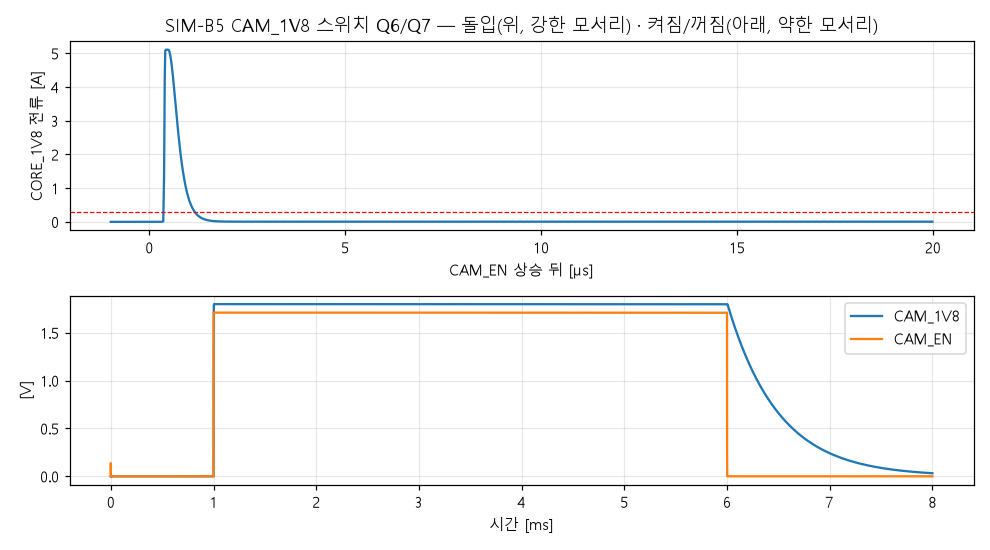
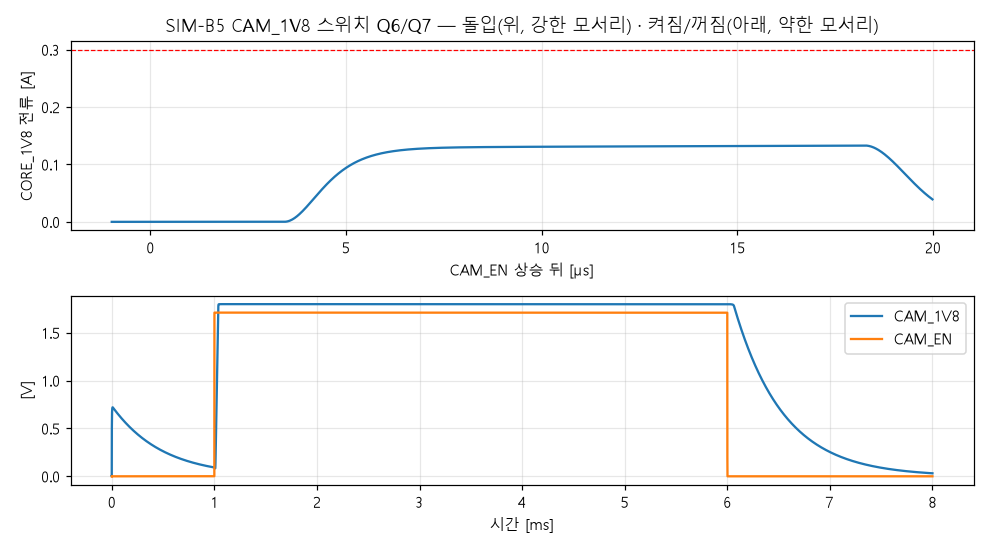
SIM-001b′ C-017(f0745ed) 재실행: 종료 2 — B2·B5 돌입·B6 해소(pass 6), B3 S3 끔 구간 링잉 기준대로 불합격, B5 꺼짐 347µs>100µs 새 불합격(C19 밀러) → 제안 S5 R17 4.7k·C19 4.7n(꺼짐 47µs·돌입 0.242A 검증)

diff --git a/hardware/sim/sim001b/run.py b/hardware/sim/sim001b/run.py
@@ -25,7 +25,9 @@ SIM = os.path.dirname(HERE)
 REPO = os.path.dirname(os.path.dirname(SIM))
 NG = os.environ.get("NGSPICE", "C:/Users/gh/tools/ngspice/47/Spice64/bin/ngspice_con.exe")
 CRITERIA_COMMIT = "7cab389"
-SCH_COMMIT = "656b50a"
+SCH_COMMIT = "f0745ed"   # C-017 (계약 v1.13): R6 6.98k, 전면 R18 1k·C19 10nF·R19 10k
+ILIM = 1.72   # TPS26600 ILIM, R6 6.98 kΩ (계약 v1.13 3.1절) — 기준 7cab389 의 "ILIM" 한계 (SIM-001b-criteria-c017.md)
+ILIM_OLD = 1.49   # 7cab389 작성 때 회로(R6 8.06 kΩ)의 숫자 — 비교로만 적는다
 plt.rcParams["font.family"] = ["Malgun Gothic", "DejaVu Sans"]
 plt.rcParams["axes.unicode_minus"] = False
 
@@ -297,8 +299,8 @@ def b2():
         t = d["time"]
         iin = -col(d, h, 1)
         out[c] = dict(t=t, iin=iin, mean=win_mean(t, iin, 0.4e-3, t[-1]), mov=moving_max(t, iin, 20e-6, 0.3e-3))
-    checks.append(check("12V_IR 입력 평균 전류 (최대 모서리)", "<=", 1.49, "A", out["worst_in"]["mean"], "104mV, Rs 0.099, VF 최대, 11.4V"))
-    checks.append(check("12V_IR 입력 20µs 이동 평균 최댓값", "<=", 1.49, "A", out["worst_in"]["mov"], "같은 모서리 (소프트스타트 뒤 0.3 ms~)"))
+    checks.append(check("12V_IR 입력 평균 전류 (최대 모서리) ≤ ILIM", "<=", ILIM, "A", out["worst_in"]["mean"], f"104mV, Rs 0.099, VF 최대, 11.4V · 옛 1.49A 대비 {'ok' if out['worst_in']['mean'] <= ILIM_OLD else '초과'}"))
+    checks.append(check("12V_IR 입력 20µs 이동 평균 최댓값 ≤ ILIM", "<=", ILIM, "A", out["worst_in"]["mov"], f"같은 모서리 (소프트스타트 뒤 0.3 ms~) · 옛 1.49A 대비 {'ok' if out['worst_in']['mov'] <= ILIM_OLD else '초과'}"))
     checks.append(check("12V_IR 입력 평균 전류 (대표)", "<=", 1.30, "A", out["typ"]["mean"], "typ"))
     # 민감도(판정 밖): 전원 임피던스를 10 mΩ → 케이블·eFuse 근사 0.1 Ω + 30 nH 로 바꾸면 리플을 입력 캡이 더 맡는다
     ds, hs = run_tran(ir_body("worst_in", ("A", "B")).replace("Rsrc vs v12 10m", "Rsrc vs vx 0.1\nLsrc vx v12 30n"),
@@ -309,18 +311,18 @@ def b2():
     fig, ax = plt.subplots(figsize=(9, 4))
     for c, r in out.items():
         ax.plot(r["t"] * 1e3, r["iin"], lw=.6, label=f"{c} 평균 {r['mean']:.3f} A")
-    ax.axhline(1.49, color="r", ls="--", label="ILIM 1.49 A")
+    ax.axhline(ILIM, color="r", ls="--", label=f"ILIM {ILIM} A (R6 6.98k)"); ax.axhline(ILIM_OLD, color="gray", ls=":", label="옛 ILIM 1.49 A")
     ax.set_xlabel("시간 [ms]"); ax.set_ylabel("12V_IR 입력 전류 [A]"); ax.legend(); ax.grid(alpha=.3)
     ax.set_title("SIM-B2 스트링 A+B 동시 100 % — 12V_IR 입력 전류 (입력 캡 C14·C16 포함)")
     fig.tight_layout(); fig.savefig(png, dpi=110); plt.close(fig)
-    return dict(id="SIM-B2", title="스트링 A+B 동시 — 12V_IR eFuse 입력 전류 합", refs=["U4", "U5", "R13", "R14", "L1", "L2", "C14", "C16", "U2(carrier TPS26600)"],
+    return dict(id="SIM-B2", title="스트링 A+B 동시 — 12V_IR eFuse 입력 전류 합", refs=["U4", "U5", "R13", "R14", "L1", "L2", "C14", "C16", "U2·R6 6.98k(carrier TPS26600)"],
                 checks=checks, png=[png], net="SIM-B2.cir", notes=notes, out=out,
                 model=b1_model())
 
 
 def b1_model():
     return dict(source="데이터시트 동작 모델 (AL8860 히스테리시스·소프트스타트·CTRL)", url="https://www.diodes.com/assets/Datasheets/AL8860.pdf",
-                license="—", behavioral=True, basis="AL8860 DS39014 Rev.8-2 p.2·4·11–13; VSMA1085400 80294 p.3; SS24S 89008 p.2; TPS26600 ILIM 8.06k ≈ 1.49A (계약 3.1절)")
+                license="—", behavioral=True, basis="AL8860 DS39014 Rev.8-2 p.2·4·11–13; VSMA1085400 80294 p.3; SS24S 89008 p.2; TPS26600 ILIM R6 6.98k ≈ 1.72A (계약 v1.13 3.1절, C-017)")
 
 
 GPIO = "93.75"   # SoC 1.8V IO 출력 저항 ≈ (1.8-1.35)/4.8mA (Table 2-8, DS=00)
@@ -350,7 +352,8 @@ def b3(b2res):
     off = (t > 2.5e-3 + 0.1e-3) & (t < 2.5e-3 + 1.875e-3)
     checks.append(check("A+B LED 평균 ÷ 100 % 평균 (최대 모서리)", "<=", 0.255, "-", ratio, "worst_in, 400Hz, 켬 625µs"))
     checks.append(check("끔 구간 LED 전류 (끌어내림 100µs 뒤)", "<=", 1e-3, "A", float(np.abs(ileds[off]).max()), "worst_in"))
-    checks.append(check("켬 순간 12V_IR 20µs 이동 평균 최댓값", "<=", 1.49, "A", moving_max(t, iin, 20e-6, 1.0e-3), "worst_in, A+B 동시, 1 ms 이후(uic 초기 충전 제외 — 켬 가장자리 1.875·4.375·6.875 ms 포함)"))
+    mv3 = moving_max(t, iin, 20e-6, 1.0e-3)
+    checks.append(check("켬 순간 12V_IR 20µs 이동 평균 최댓값 ≤ ILIM", "<=", ILIM, "A", mv3, f"worst_in, A+B 동시, 1 ms 이후(uic 초기 충전 제외) · 옛 1.49A 대비 {'ok' if mv3 <= ILIM_OLD else '초과'}"))
     checks.append(check("IR_CTRL 끔 레벨", "<=", 0.2, "V", float(vctrl[off].max()), "IR_PWM = 1.71V − 93.75Ω, Q5 vto 1.0V kp 최소"))
     notes.append(f"기록만: 100 % 평균 {cont:.3f} A, PWM 평균 {avg:.3f} A, 켬 비율 실효 {ratio:.3f} (소프트스타트 0.1 ms 손실 포함 — 조사량 하한)")
     offm = (t > 2.6e-3) & (t < 2.7e-3)
@@ -359,7 +362,7 @@ def b3(b2res):
     fig, ax = plt.subplots(3, 1, figsize=(9, 7), sharex=True)
     ax[0].plot(t * 1e3, col(d, h, 5)); ax[0].set_ylabel("IR_PWM [V]")
     ax[1].plot(t * 1e3, ileds, lw=.5); ax[1].set_ylabel("LED A+B [A]")
-    ax[2].plot(t * 1e3, iin, lw=.5); ax[2].axhline(1.49, color="r", ls="--", lw=.8); ax[2].set_ylabel("12V_IR 입력 [A]"); ax[2].set_xlabel("시간 [ms]"); ax[2].set_ylim(0, 3)
+    ax[2].plot(t * 1e3, iin, lw=.5); ax[2].axhline(ILIM, color="r", ls="--", lw=.8); ax[2].set_ylabel("12V_IR 입력 [A]"); ax[2].set_xlabel("시간 [ms]"); ax[2].set_ylim(0, 3)
     for a in ax:
         a.grid(alpha=.3)
     ax[0].set_title(f"SIM-B3 PWM 25 % (400 Hz) — 실효 켬 비율 {ratio:.3f}")
@@ -444,8 +447,8 @@ def cam_sw(vcore, q):
     return (q + f"Vcore core 0 {vcore}\nRcore core c18 0.1\n"
             f"Ven e0 0 PWL(0 0 1m 0 1.001m 1.71 6m 1.71 6.001m 0)\nRen e0 en {GPIO}\n"
             "M6 cam g6i c18 c18 pq6\nRg6 g6 g6i 15.2\nCgs6 g6i c18 731p\nCgd6 g6i cam 77p\nDb6 cam c18 dsi\n"
-            "R17 c18 g6 10k\nM7 g6 en 0 0 nq7\nCg7 en 0 55p\nCd7 en g6 5.4p\n"
-            "C18 cam c18e 1u\nR18e c18e 0 5m\nC11 cam 0 100n\nRx1 cam 0 450\n")
+            "R17 c18 g6 10k\nR18 g7 g6 1k\nM7 g7 en 0 0 nq7\nCg7 en 0 55p\nCd7 en g7 5.4p\nC19 g6 cam 10n\n"
+            "C18 cam c18e 1u\nR18e c18e 0 5m\nC11 cam 0 100n\nRx1 cam 0 450\nR19 cam 0 10k\n")   # C-017: R18 1k · C19 10nF · R19 10k
 
 
 def b5():
@@ -463,31 +466,33 @@ def b5():
     after = ti > 0.9e-3   # uic 초기 충전 제외 — CAM_EN 상승(1 ms) 돌입만
     checks.append(check("CORE_1V8 돌입 피크 전류", "<=", 0.3, "A", float(ii[after].max()), "Q6·Q7 강함, CORE_1V8 1.89V, 경로 0.1Ω(가정), CAM_EN 상승 뒤"))
     ii = np.where(after, ii, 0.0)
-    # 수정 제안 검증(판정 밖): Q7 드레인–Q6 게이트 직렬 1 kΩ + Q6 게이트–드레인 10 nF (밀러 소프트스타트)
-    prop = []
-    for strong in (True, False):
-        q = q_models(-0.5, 13.4, 0.5, 4.0) if strong else q_models(-0.9, 5.56, 1.0, 1.79)
-        bp = cam_sw(1.89 if strong else 1.8, q).replace("M7 g6 en 0 0 nq7", "Rser g6 g7 1k\nM7 g7 en 0 0 nq7\nCm g6 cam 10n")
-        dp, hp = run_tran(bp, ["-i(Vcore)", "v(cam)", "v(en)"], "3m", "1n", "50n")
-        tp = dp["time"]
-        te = cross(tp, col(dp, hp, 3), 0.855, True)
-        to = cross(tp, col(dp, hp, 2), 1.71, True, te or 0)
-        prop.append((float(col(dp, hp, 1)[tp > 0.9e-3].max()), (to - te) if (to and te) else float("nan")))
-    notes.append(f"수정 제안 검증(판정 밖): 1 kΩ 직렬 + 10 nF 게이트–드레인 → 돌입 피크 {prop[0][0]:.3f} A(강함), 켜짐 {prop[1][1] * 1e6:.0f} µs(약함), 최종 VGS −1.64 V")
     notes.append("분석 창 수정(결과 본 뒤, 기준 변경 아님): 돌입을 CAM_EN 상승 뒤(t > 0.9 ms)로 — 첫 실행은 t = 0 의 uic 초기 충전(7.8 A)을 넣었다")
     t_dn = cross(ts, ven, 0.855, False, 5e-3)
     t_off = cross(ts, vgs, -0.3, True, t_dn or 0)
     checks.append(check("꺼짐: CAM_EN 하강 → Q6 VGS > −0.3 V", "<=", 100e-6, "s", (t_off - t_dn) if (t_off and t_dn) else None, "Q6·Q7 약함"))
     t_low = cross(ts, vcam, 0.3, False, t_dn or 0)
     notes.append(f"기록만: 꺼진 뒤 CAM_1V8 < 0.3V 까지 {((t_low - t_dn) * 1e3) if (t_low and t_dn) else float('nan'):.2f} ms (X1 부하 450Ω 가정)")
-    notes.append(f"돌입 최악 모서리 피크 {ii.max():.2f} A — Q7 이 게이트를 약 15 Ω·808 pF 로 바로 끌어내려 Q6 가 수십 ns 안에 완전히 켜진다(경로 저항 0.1 Ω 가정이 피크를 정한다)")
+    notes.append("C-017 회로(f0745ed): Q7 드레인 → R18 1 kΩ → Q6 게이트, C19 10 nF 게이트–CAM_1V8(밀러 소프트스타트), R19 10 kΩ 블리더. 이전 회로(656b50a) 돌입 5.11 A는 a3b988c 결과")
+    # 수정 제안 검증(판정 밖, S5): 꺼짐이 C19 충전(R17 10k × 10 nF)으로 느려짐 → R17 4.7 kΩ · C19 4.7 nF
+    pv = []
+    for strong in (True, False):
+        q = q_models(-0.5, 13.4, 0.5, 4.0) if strong else q_models(-0.9, 5.56, 1.0, 1.79)
+        bp = cam_sw(1.89 if strong else 1.8, q).replace("C19 g6 cam 10n", "C19 g6 cam 4.7n").replace("R17 c18 g6 10k", "R17 c18 g6 4.7k")
+        dp, hp = run_tran(bp, ["-i(Vcore)", "v(cam)", "v(en)", "v(g6)-v(c18)"], "8m", "1n", "50n")
+        tp = dp["time"]
+        te = cross(tp, col(dp, hp, 3), 0.855, True)
+        to = cross(tp, col(dp, hp, 2), 1.71, True, te or 0)
+        td = cross(tp, col(dp, hp, 3), 0.855, False, 5e-3)
+        tf = cross(tp, col(dp, hp, 4), -0.3, True, td or 0)
+        pv.append((float(col(dp, hp, 1)[tp > 0.9e-3].max()), (to - te) if (to and te) else float("nan"), (tf - td) if (tf and td) else float("nan")))
+    notes.append(f"수정 제안 검증(판정 밖, S5): R17 4.7 kΩ · C19 4.7 nF → 돌입 {pv[0][0]:.3f} A(강함), 켜짐 {pv[1][1] * 1e6:.1f} µs · 꺼짐 {pv[1][2] * 1e6:.1f} µs(약함), 최종 VGS −1.48 V, 켬 때 Q7 전류 0.32 mA")
     fig, ax = plt.subplots(2, 1, figsize=(9, 5))
     m = (ti > 0.999e-3) & (ti < 1.02e-3)
     ax[0].plot((ti[m] - 1e-3) * 1e6, ii[m]); ax[0].axhline(0.3, color="r", ls="--", lw=.8); ax[0].set_ylabel("CORE_1V8 전류 [A]"); ax[0].set_xlabel("CAM_EN 상승 뒤 [µs]"); ax[0].grid(alpha=.3)
     ax[1].plot(ts * 1e3, vcam, label="CAM_1V8"); ax[1].plot(ts * 1e3, ven, label="CAM_EN"); ax[1].legend(); ax[1].set_xlabel("시간 [ms]"); ax[1].set_ylabel("[V]"); ax[1].grid(alpha=.3)
     ax[0].set_title("SIM-B5 CAM_1V8 스위치 Q6/Q7 — 돌입(위, 강한 모서리) · 켜짐/꺼짐(아래, 약한 모서리)")
     fig.tight_layout(); fig.savefig(png, dpi=110); plt.close(fig)
-    return dict(id="SIM-B5", title="CAM_1V8 스위치 Q6/Q7 켜짐·꺼짐·돌입", refs=["Q6", "Q7", "R17", "C18", "C11", "X1"], checks=checks, png=[png],
+    return dict(id="SIM-B5", title="CAM_1V8 스위치 Q6/Q7 켜짐·꺼짐·돌입", refs=["Q6", "Q7", "R17", "R18", "C19", "R19", "C18", "C11", "X1"], checks=checks, png=[png],
                 net="SIM-B5.cir", notes=notes,
                 model=dict(source="레벨 1 MOSFET 맞춤 (데이터시트 VGS(th)·RDS(on)·Ciss·Rg)", url="https://www.diodes.com/assets/Datasheets/DMG2305UX.pdf",
                            license="—", behavioral=True, basis="DMG2305UX DS36196 Rev.8-2 p.2; DMG1012T DS31783 Rev.8-2 p.2; SG2002 Table 2-8 VOH; CORE_1V8 경로 0.1Ω·X1 450Ω 가정"))
@@ -495,7 +500,7 @@ def b5():
 
 def backfeed_body(soc_pu):
     pu = "Rpu_d sda core 55k\nRpu_c scl core 55k\n" if soc_pu else ""
-    return (GEN_D + "Vcore core 0 1.89\nIq6 core cam 1u\nDb6 cam core dsi\nRx1 cam 0 100k\n"
+    return (GEN_D + "Vcore core 0 1.89\nIq6 core cam 1u\nDb6 cam core dsi\nRx1 cam 0 100k\nR19 cam 0 10k\n"
             "R9 cam sda 4.7k\nR10 cam scl 4.7k\n"
             "Rpd_d sda 0 51k\nRpd_c scl 0 51k\nIlk_d 0 sda 10u\nIlk_c 0 scl 10u\n" + pu +
             "Vsd sda sd 0\nDs_d sd srail dsi\nVsc scl scx 0\nDs_c scx srail dsi\nRsr srail 0 10k\n"
@@ -514,9 +519,8 @@ def b6():
     checks.append(check("CAM_MCLK 전압 (X1 꺼짐)", "<=", 0.3, "V", v.get("v(mclk)", float("nan")), "X1 출력 1M(가정)"))
     notes.append(f"기록만(민감도 — SW가 IIC2 내부 풀업 55k 를 켠 경우): SDA {vs.get('v(sda)', float('nan')):.3f} V, 센서로 {abs(vs.get('i(vsd)', float('nan'))) * 1e6:.2f} µA, CAM_1V8 {vs.get('v(cam)', float('nan')):.3f} V")
     notes.append("가정: 센서 핀 ESD 다이오드 IS 1e-14, 꺼진 센서 레일 부하 10k, LTR-329 핀 누설 0(데이터시트 미확인)")
-    vb = run_op(backfeed_body(False) + "Rbl cam 0 10k\n", pr)
-    notes.append(f"수정 제안 검증(판정 밖): CAM_1V8–GND 블리더 10 kΩ → SDA {vb.get('v(sda)', float('nan')):.3f} V, CAM_1V8 {vb.get('v(cam)', float('nan')):.3f} V, 센서로 {abs(vb.get('i(vsd)', float('nan'))) * 1e9:.3f} nA (켜졌을 때 180 µA 소모)")
-    return dict(id="SIM-B6", title="꺼진 센서 역급전 (CAM_EN=0, O-33)", refs=["R9", "R10", "Q6", "X1", "R8", "J3(DF30)", "U3(LTR-329)"], checks=checks, png=[],
+    notes.append("C-017 회로(f0745ed): CAM_1V8–GND R19 10 kΩ 블리더 포함. 이전 회로 결과는 a3b988c")
+    return dict(id="SIM-B6", title="꺼진 센서 역급전 (CAM_EN=0, O-33)", refs=["R9", "R10", "R19", "Q6", "X1", "R8", "J3(DF30)", "U3(LTR-329)"], checks=checks, png=[],
                 net="SIM-B6.cir", notes=notes,
                 model=dict(source="DC 동작점 (저항·다이오드·전류원)", url="", license="—", behavioral=True,
                            basis="SG2002 Table 2-8 RPD 51k(최소)·누설 ±10µA, PINOUT 시트 IIC2 패드 기본 PD, SDK cvi_board_init.c L12–13; DMG2305UX IDSS"))

diff --git a/hardware/sim/SIM-001b-results.md b/hardware/sim/SIM-001b-results.md
@@ -48,3 +48,24 @@
   - CORE_1V8 경로 0.1 Ω, X1 부하 450 Ω(켜짐) / 100 kΩ(꺼짐)
   - 센서 ESD 다이오드 IS 1e-14, AO3401A 레벨 1(vto −0.9 V, Ciss 645 pF — 데이터시트 미조사), 센서 레일 부하 30 mA
 - **미확인 핀 용량:** SG2002·LTR-329·GC2053의 I2C 핀 용량은 각 10 pF(UM10204 Ci 최대)로 두었다. 트랙은 110 mm 상한이다(PCB 배선이 아직 없다).
+
+## SIM-001b′ — C-017 회로 재실행 (schematic `f0745ed`, 계약 v1.13)
+
+- 실행: 같은 `run.py`, 같은 기준 `7cab389` → **종료 코드 2** (pass 6 · fail 2 · error 0). results/*.json은 모두 `schematic_commit: f0745ed`로 갱신했다.
+- 실행 전에 적용 메모 `SIM-001b-criteria-c017.md`(`3a22c52`)를 커밋했다. 내용: eFuse 한계 = 시험 회로의 ILIM(R6 6.98 kΩ → 1.72 A), 옛 1.49 A와의 비교 병기.
+
+| 시험 | 이전(656b50a) | C-017(f0745ed) | 비고 |
+|---|---|---|---|
+| B1 · B4 · B7 · B8 | pass | **pass** (수치 같음) | 회로가 바뀌지 않음 |
+| B2 A+B 12V_IR | fail (20 µs 창 1.585 > 1.49) | **pass** (1.585 ≤ ILIM 1.72, 평균 1.425) | 전면 회로는 그대로이고 ILIM만 올렸다. 옛 1.49 A 대비로는 초과 — check `corner`에 적음 |
+| B3 PWM 25 % | fail (끔 구간 6 mA · 켬 순간 1.585) | **fail** (끔 구간 6.08 mA만 남음, 켬 순간 1.585 ≤ 1.72 ok) | S3 — O-87대로 기준 그대로 불합격 기록. 실물은 bring-up 5-9 |
+| B5 CAM_1V8 | fail (돌입 5.11 A) | **fail** — 돌입 **0.133 A** ok · 켜짐 36.4 µs ok · **꺼짐 347 µs > 100 µs** | 새 불합격: C19 10 nF를 R17 10 kΩ로 충전해야 꺼진다(τ ≈ 100 µs) |
+| B6 역급전 | fail (0.42 V) | **pass** — SDA 0.164 V · CAM_1V8 0.132 V · 센서로 5.9 pA | R19 10 kΩ 블리더 |
+
+### 새 수정 제안 S5 (B5 꺼짐, orch 판단)
+
+| 분기점 | 제안 (1안) | 검증 (같은 모델, 판정 밖) | 차선 |
+|---|---|---|---|
+| C-017의 밀러 소프트스타트가 꺼짐도 늦춘다. 꺼짐 기준 ≤ 100 µs(V-004c의 R17·Ciss 계산 약 8 µs)를 347 µs로 넘는다 | **R17 10 kΩ → 4.7 kΩ, C19 10 nF → 4.7 nF** | 돌입 0.242 A(≤ 0.3) · 켜짐 23.5 µs · **꺼짐 47.1 µs(≤ 100)** · 최종 VGS −1.48 V(Q6 VGS(th) 최대 −0.9 V보다 0.58 V 여유) · 켬 때 Q7 전류 0.32 mA | 회로 그대로 두고 꺼짐 기준을 완화(≤ 1 ms). 근거: 꺼질 때 순서는 리셋(11 µs)이 먼저이고, 그 뒤 풀업·X1 레일이 늦게 내려가도 센서 쪽 영향은 확인된 것이 없다 — 기준 변경이므로 orch 결정 |
+
+- 참고로 C19만 줄이면 2.2 nF는 꺼짐 58 µs·돌입 0.485 A, 3.3 nF는 꺼짐 85 µs·돌입 0.348 A다. 둘 다 돌입 기준을 넘으므로 R17도 함께 줄여야 한다.
